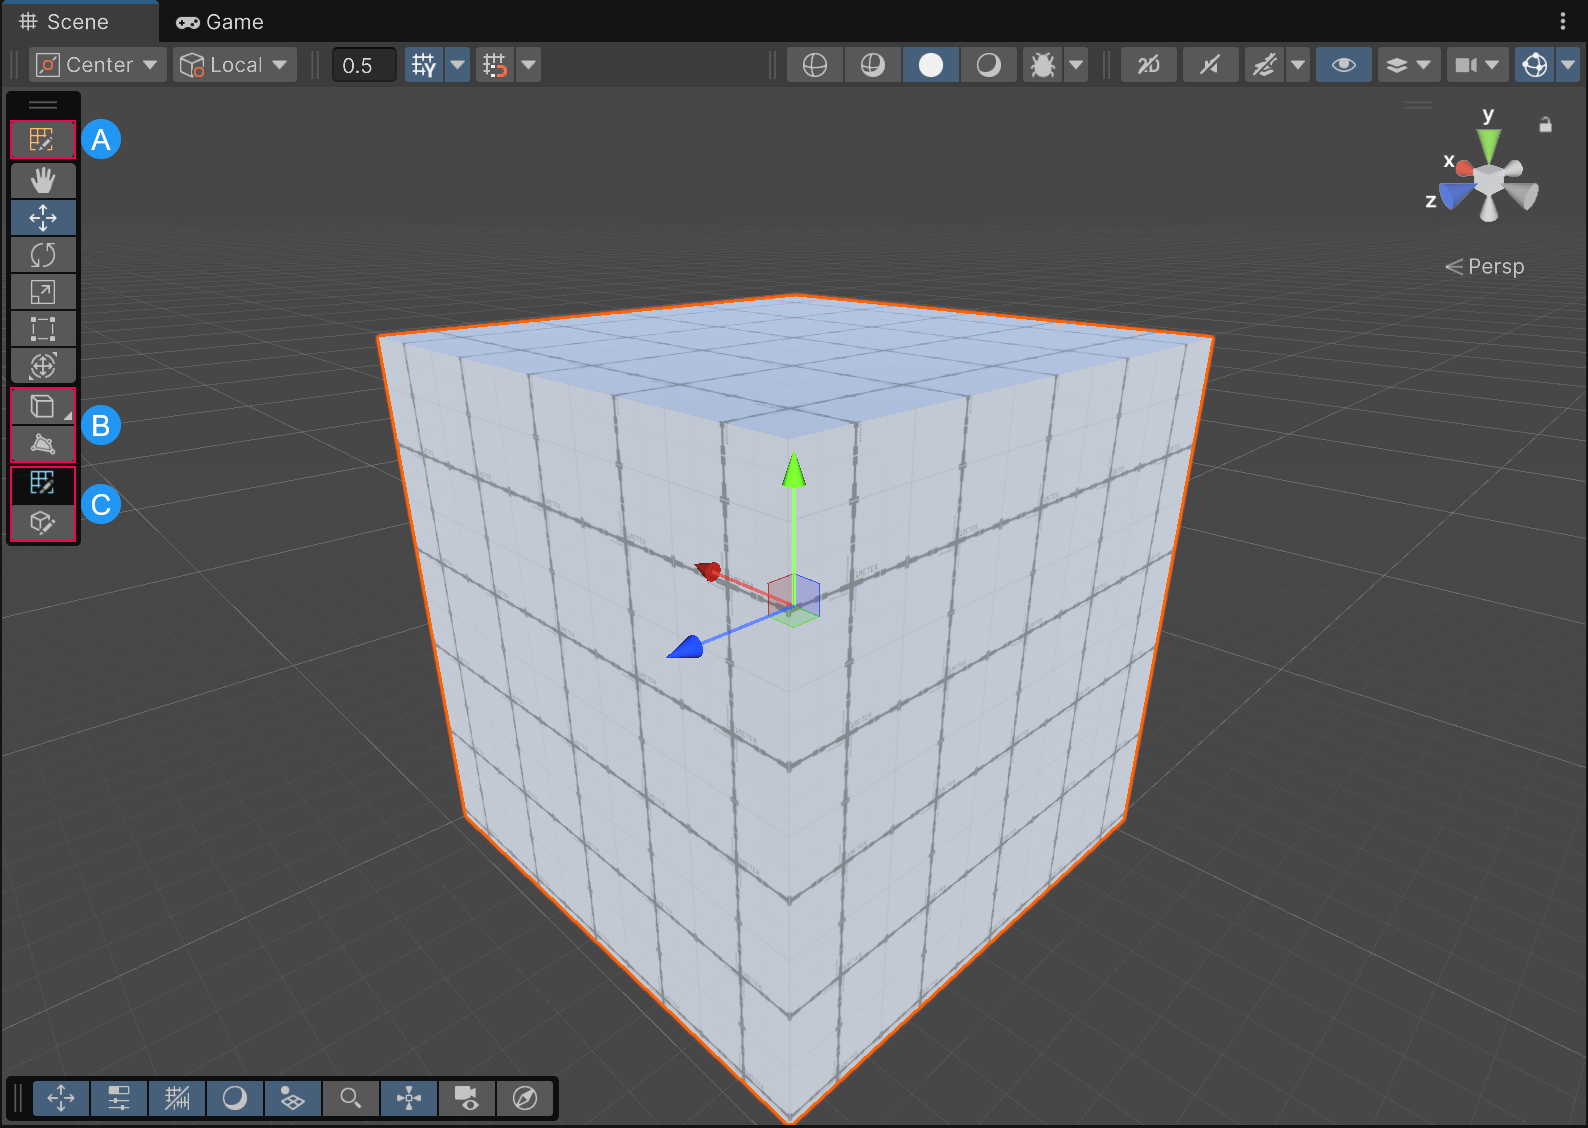
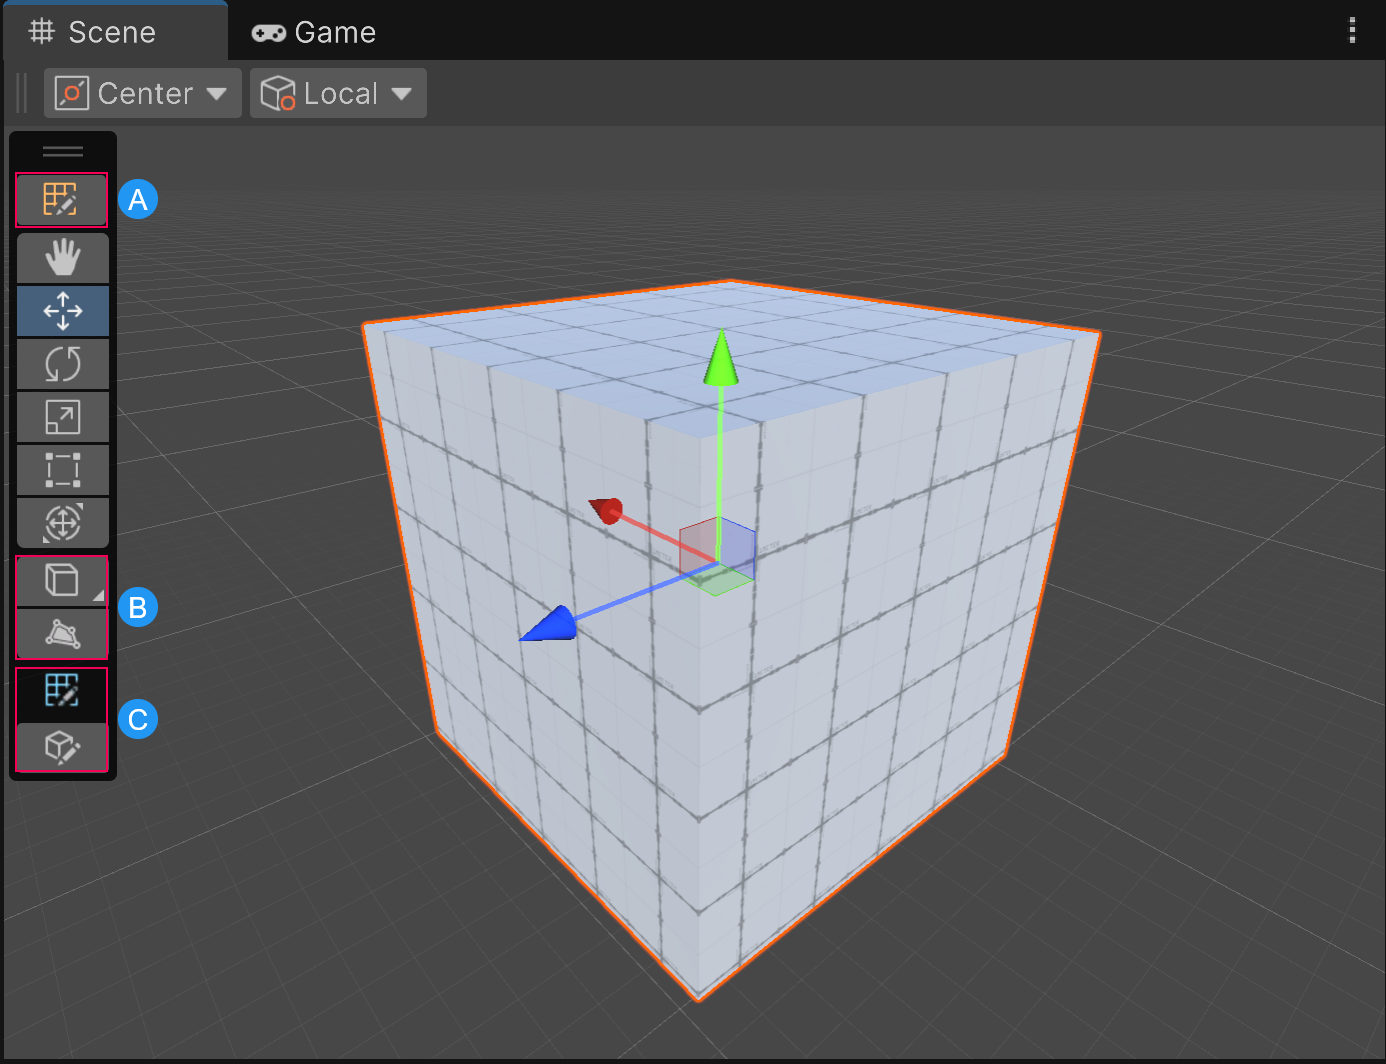
Made screenshots smaller, less cluttered.

diff --git a/Documentation~/modes.md b/Documentation~/modes.md
@@ -19,7 +19,7 @@ Use the GameObject context to control the entire mesh. The GameObject tool conte
     
 ![The GameObject context changes the options you can use in both the Tools and Tool Context overlay to those that control the entire GameObject](images/GameObjectContextOverlays.png)
 
-* A: The active tool context. In this image, the GameObject context is active. This icon in the Tools overlay displays that the ProBuilder context is available, but it's not highlighted in blue so it's not active. 
+* A: The active tool context. In this image, the GameObject context is active. This icon in the **Tools** overlay displays that the ProBuilder context is available, but it's not highlighted in blue so it's not active. 
 * B: ProBuilder global tools. The project in this image has the ProBuilder package installed, so these tools are always available. If you do not have the ProBuilder package installed, these tools are not available.
 * C: ProBuilder component tools. The GameObject selected in this image has a ProBuilder component attached to it, so it has [**Edit ProBuilder Shape**](workflow-edit) available. This component tool is available in both ProBuilder and GameObject tool contexts. 
 
@@ -28,18 +28,18 @@ Use the GameObject context to control the entire mesh. The GameObject tool conte
 
 You can use the ProBuilder context to access tools that control individual elements of the mesh. You can only activate the ProBuilder context if the GameObject you have selected has a ProBuilder component attached to it. The ProBuilder context is further divided into edit modes that define what you are selecting and editing. 
 
-To change edit modes within the ProBuilder context, in the **Tool Settings** overlay, select a mode. 
+To change edit modes within the ProBuilder context, in the ****Tool Settings**** overlay, select a mode. 
 
-![The ProBuilder context changes the options you can use in both the Tools and Tool Context overlay to those that change individual parts of a ProBuilder object](images/ProBuilderContextOverlays.png)
+![The ProBuilder context changes the options you can use in both the **Tools** and **Tool Settings** overlay to those that change individual parts of a ProBuilder object](images/ProBuilderContextOverlays.png)
 
 
-* A: The active tool context. In this image, the ProBuilder tool context is active, so the Tool Settings overlay has settings specific to ProBuilder displayed. To disable the ProBuilder context and return to the GameObject tool context, select this icon. 
-* B: The Cut tool. To learn more, refer to [The Cut Tool](cut-tool).
-* C: ProBuilder component tools. The GameObject selected in this image has a ProBuilder component attached to it, so it has [**Edit ProBuilder Shape**](workflow-edit) available. This component tool is available in both ProBuilder and GameObject tool contexts. 
-* D: Vertex Selection edit mode in the Tool Settings overlay. Select vertices and perform detailed editing such as vertex splitting and connecting. For a complete list of actions you can perform in this mode, refer to [Vertex actions](vertex.md)
-* E: Edge selection edit modein the Tool Settings overlay. Select edges and perform semi-complex geometry editing, and edge loop modeling techniques. For a complete list of actions you can perform in this mode, refer to [Edge actions](edge.md).
-* F: Face selection edit mode in the Tool Settings overlay. Select faces on an object to perform basic tasks like moving, extruding, or even deleting them. For a complete list of actions you can perform in this mode, refer to [Face actions](face.md).
-* G: Hidden Element Selection setting in the Tool Settings overlay. To learn more, refer to [Select Hidden](Selection_SelectHidden).
+* A: The active tool context in the **Tools** overlay. In this image, the ProBuilder tool context is active, so the **Tool Settings** overlay has settings specific to ProBuilder displayed. To disable the ProBuilder context and return to the GameObject tool context, select this icon. 
+* B: The Cut tool in the **Tools** overlay. To learn more, refer to [The Cut Tool](cut-tool).
+* C: ProBuilder component tools in the **Tools** overlay. The GameObject selected in this image has a ProBuilder component attached to it, so it has [**Edit ProBuilder Shape**](workflow-edit) available. This component tool is available in both ProBuilder and GameObject tool contexts. 
+* D: Vertex Selection edit mode in the **Tool Settings** overlay. Select vertices and perform detailed editing such as vertex splitting and connecting. For a complete list of actions you can perform in this mode, refer to [Vertex actions](vertex.md)
+* E: Edge selection edit modein the **Tool Settings** overlay. Select edges and perform semi-complex geometry editing, and edge loop modeling techniques. For a complete list of actions you can perform in this mode, refer to [Edge actions](edge.md).
+* F: Face selection edit mode in the **Tool Settings** overlay, which is the active edit mode in this image. Select faces on an object to perform basic tasks like moving, extruding, or even deleting them. For a complete list of actions you can perform in this mode, refer to [Face actions](face.md).
+* G: Hidden Element Selection setting in the **Tool Settings** overlay. To learn more, refer to [Select Hidden](Selection_SelectHidden).
 
 
 
